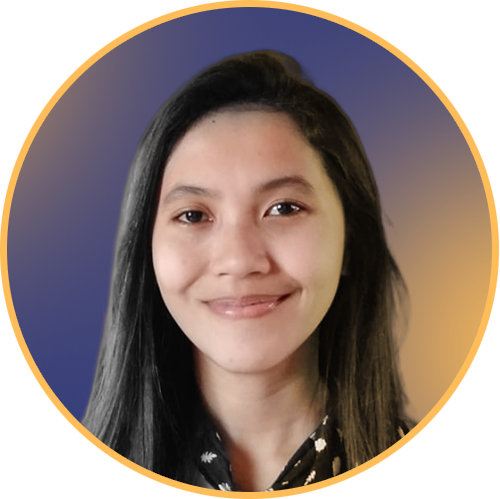
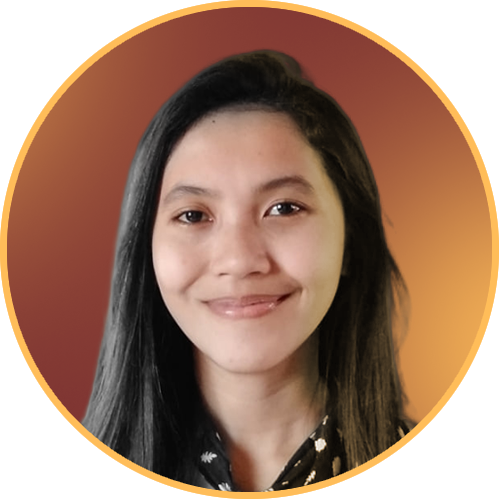
changed app theme to maroon

diff --git a/lib/constants.dart b/lib/constants.dart
@@ -1,13 +1,13 @@
 import 'package:flutter/material.dart';
 
 // Colors
-Color kPrimaryColor = const Color.fromARGB(255, 49, 59, 123);
-Color kPrimaryLightColor = const Color.fromARGB(255, 104, 119, 219);
+Color kPrimaryColor = const Color.fromARGB(255, 123, 49, 49);
+Color kPrimaryLightColor = const Color.fromARGB(255, 219, 104, 104);
 Color kSecondaryColor = const Color.fromARGB(255, 255, 189, 89);
-Color kBackgroundColor = const Color.fromARGB(255, 22, 29, 68);
-Color kButtonColor = const Color.fromARGB(255, 13, 19, 52);
+Color kBackgroundColor = const Color.fromARGB(255, 68, 22, 22);
+Color kButtonColor = const Color.fromARGB(255, 52, 13, 13);
 Color kDarkGreenColor = const Color.fromARGB(255, 22, 68, 46);
-Color kDarkRedColor = const Color.fromARGB(255, 68, 30, 22);
+Color kDarkRedColor = const Color.fromARGB(255, 137, 35, 35);
 Color kGreyedColor = const Color.fromARGB(255, 103, 108, 137);
 
 // Fonts
